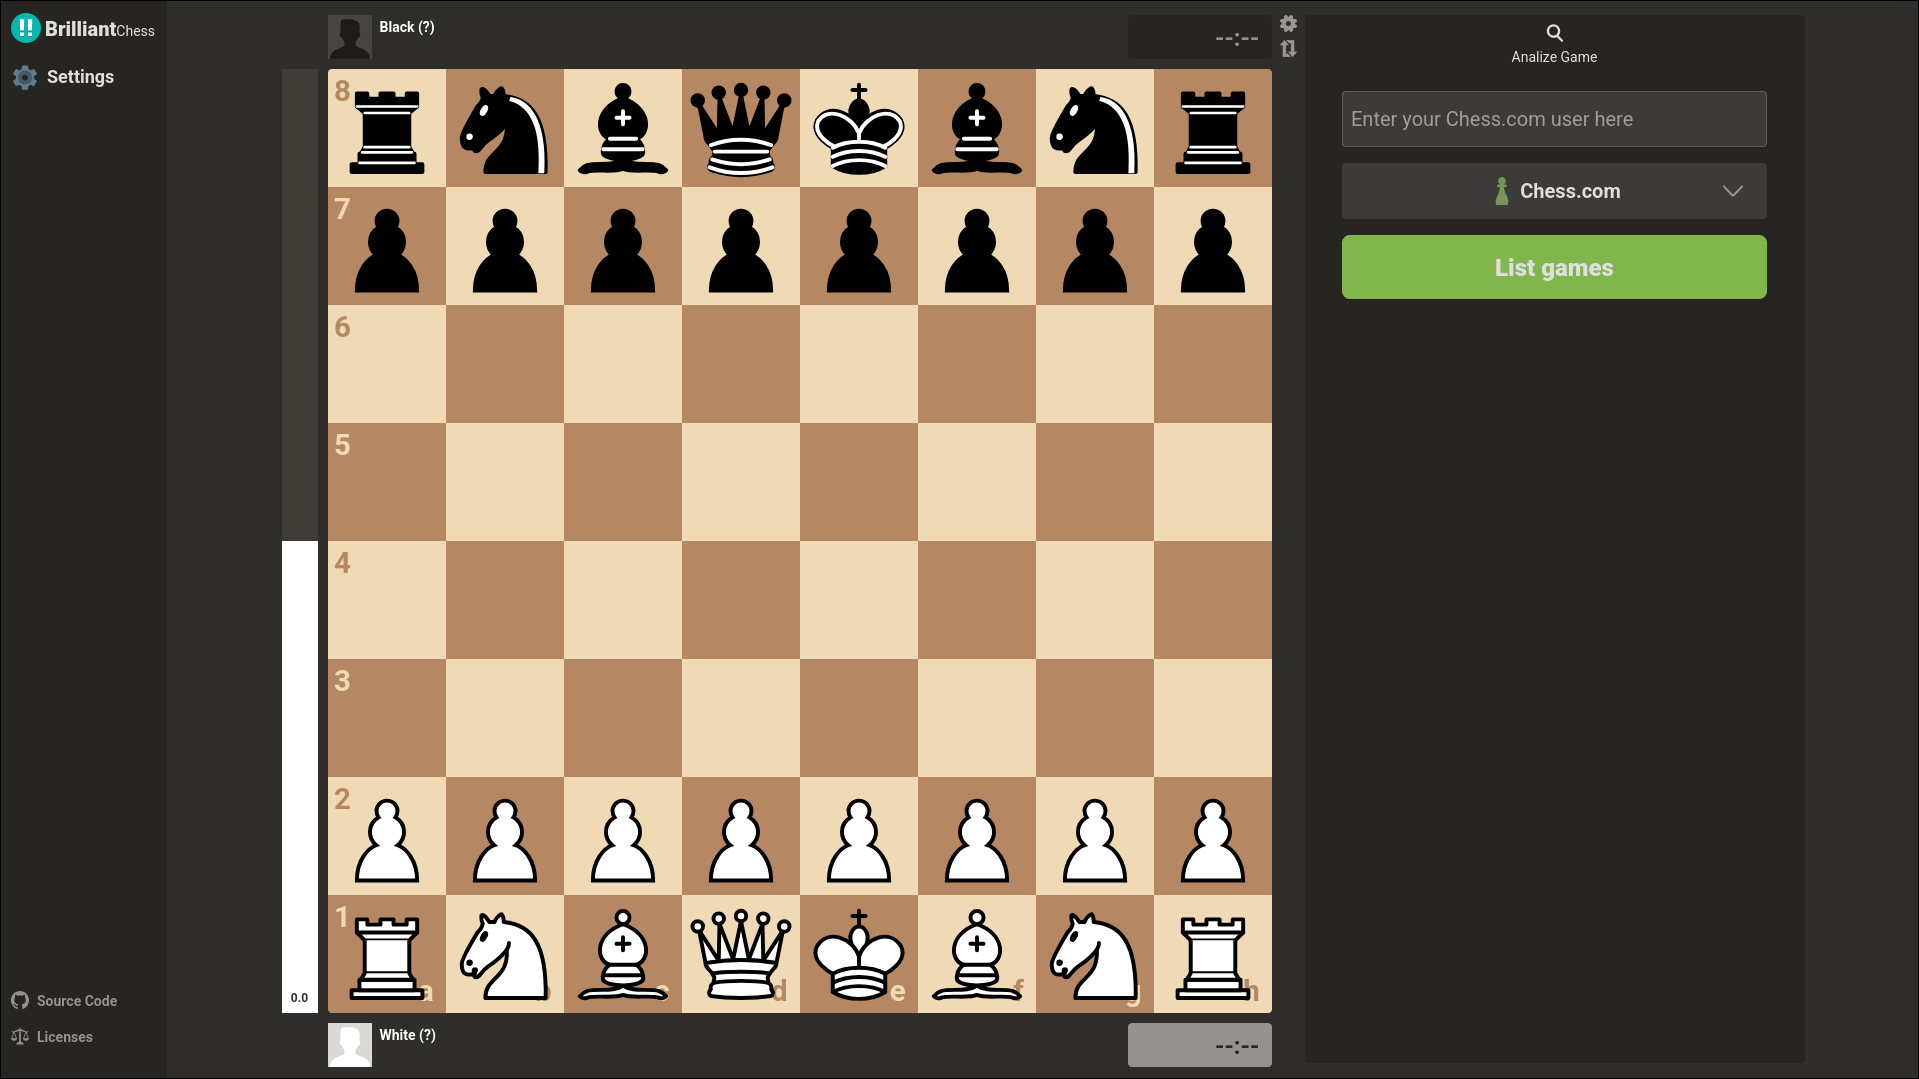
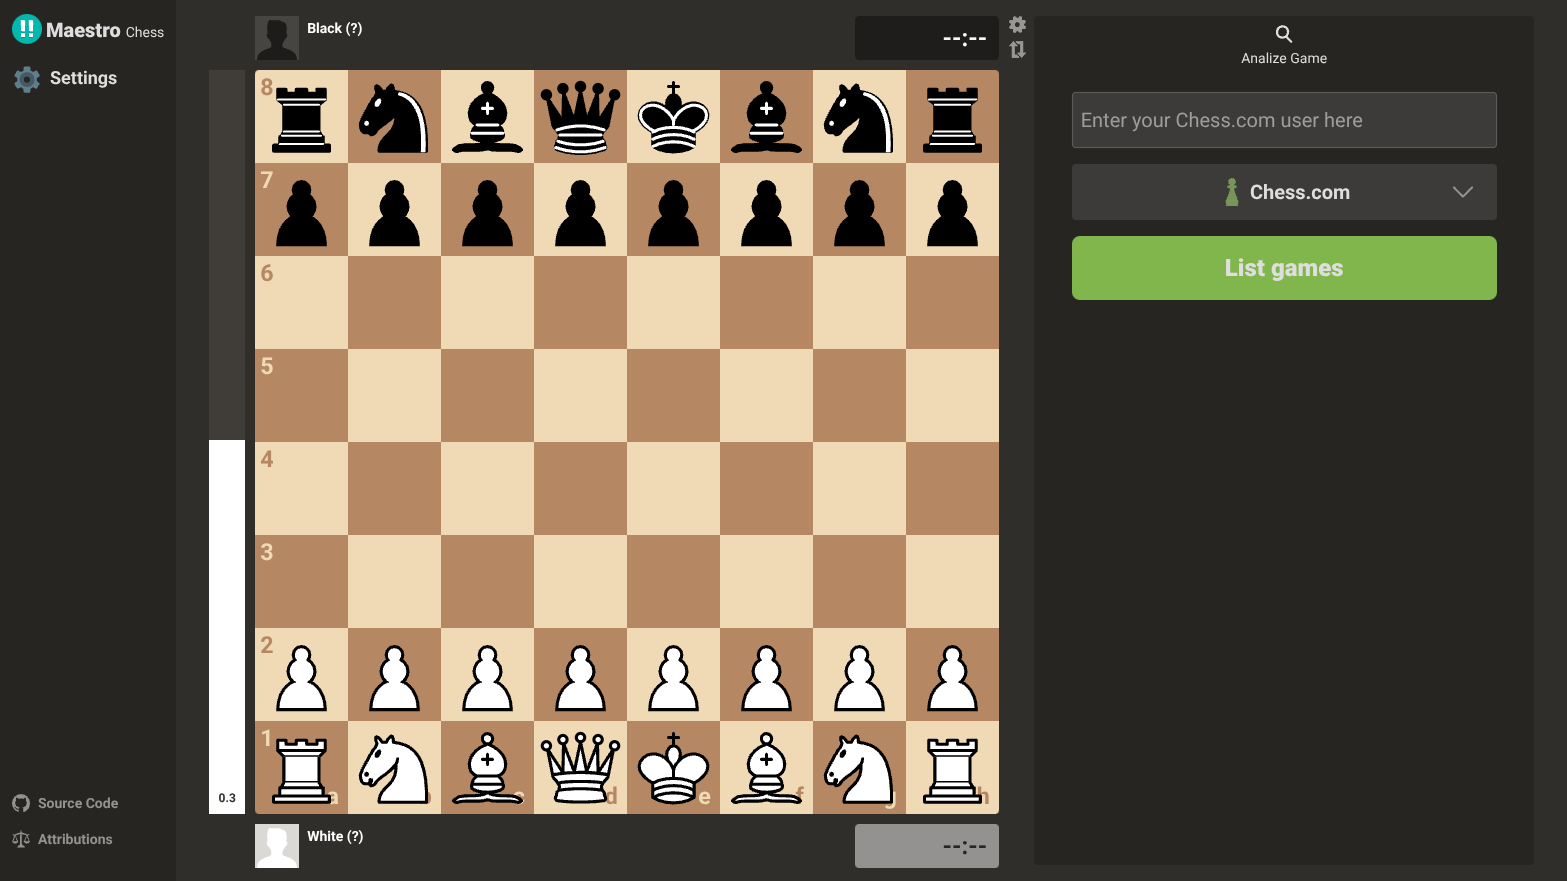
Update project branding to Maestro Chess

diff --git a/src/components/nav/nav.tsx b/src/components/nav/nav.tsx
@@ -39,7 +39,7 @@ export default function Nav() {
     }
 
     const botLinks: BotLinks[] = [
-        { label: "Source Code", href: "https://github.com/wdeloo/Brilliant-Chess", icon: (props: {className: string}) => <GitHub class={props.className} /> },
+        { label: "Source Code", href: "https://github.com/Delta-Polder-Indonesia/Maestro-Chess", icon: (props: {className: string}) => <GitHub class={props.className} /> },
         { label: "Attributions", href: "/attributions", icon: (props: {className: string}) => <Licenses class={props.className} /> },
     ]
 
@@ -73,9 +73,9 @@ export default function Nav() {
         <nav className="flex flex-col navTop:h-screen navTop:w-max w-screen relative">
             <div className="navTop:pt-1 navTop:pb-6 navTop:h-full w-full overflow-y-auto bg-backgroundBox flex navTop:flex-col flex-row justify-between select-none navTop:items-start items-stretch">
                 <div ref={topLinksRef} className="flex navTop:flex-col flex-row">
-                    <Link draggable={false} onMouseEnter={() => setOpenedMenu(null)} href="/" className="flex flex-row gap-1 font-extrabold text-xl navTop:p-3 p-1.5 transition-colors hover:bg-backgroundBoxHover hover:text-foregroundHighlighted">
-                        <Image draggable={false} height={30} width={30} alt="logo" src={`${process.env.NEXT_PUBLIC_BASE_PATH}/images/logo.svg`} className="navTop:mt-[-2px]" />
-                        <div className="h-fit w-fit reduceNav:block hidden">Brilliant<span className="text-sm font-light">Chess</span></div>
+                    <Link draggable={false} onMouseEnter={() => setOpenedMenu(null)} href="/" aria-label="Maestro Chess" className="flex flex-row gap-1 font-extrabold text-xl navTop:p-3 p-1.5 transition-colors hover:bg-backgroundBoxHover hover:text-foregroundHighlighted">
+                        <Image draggable={false} height={30} width={30} alt="" src={`${process.env.NEXT_PUBLIC_BASE_PATH}/images/logo.svg`} className="navTop:mt-[-2px]" />
+                        <div className="h-fit w-fit reduceNav:block hidden">Maestro{" "}<span className="text-sm font-light">Chess</span></div>
                     </Link>
                     {topLinks.map((link, i) => {
                         return (

diff --git a/src/app/layout.tsx b/src/app/layout.tsx
@@ -9,11 +9,11 @@ const roboto = Roboto({
 })
 
 export const metadata: Metadata = {
-  title: "Brilliant Chess - Free Chess Analyzer",
+  title: "Maestro Chess - Free Chess Analyzer",
   description: "Analyze your chess games and improve your skills completely free.",
-  keywords: ["chess", "chess analysis", "free chess analyzer", "free chess.com analyzer", "analyze chess for free", "analyze chess games", "brilliant move chess", "brilliant chess", "brilliant-chess"],
+  keywords: ["chess", "chess analysis", "free chess analyzer", "free chess.com analyzer", "analyze chess for free", "analyze chess games", "brilliant move chess", "maestro chess", "maestro-chess"],
   authors: [{ name: 'Delo', url: "https://github.com/wdeloo" }],
-  applicationName: "Brilliant Chess",
+  applicationName: "Maestro Chess",
 
   icons: {
     icon: "favicon.ico"
